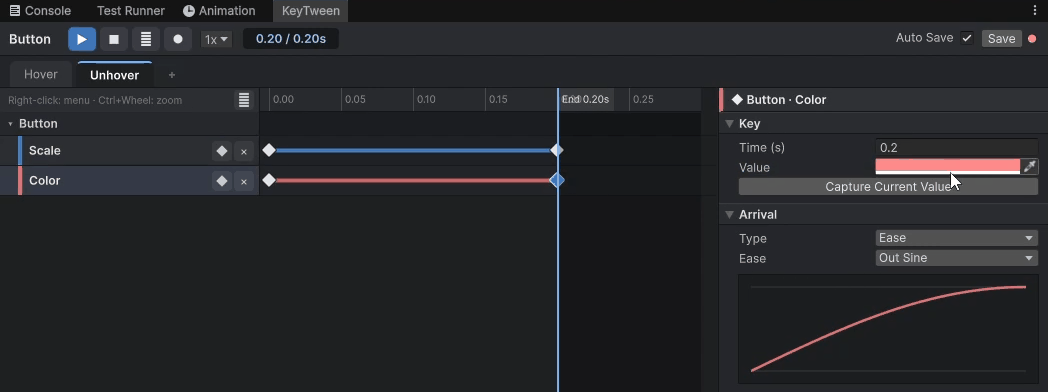
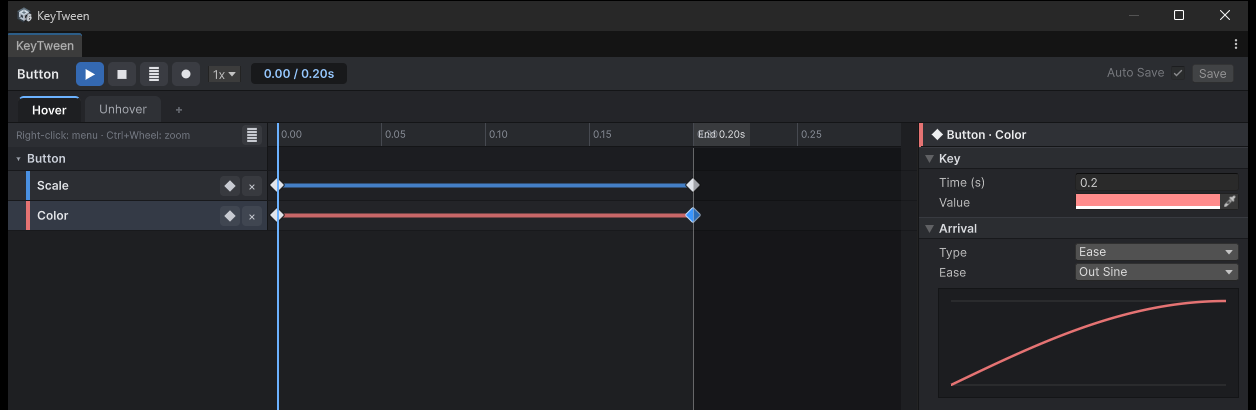
Docs~ and README: UniTask/R3 methods for timed and With plays and state notifications, new editor screenshots (key inspector, box selection, recording, per-character track, events, override, scroll list inspector)

diff --git a/Docs~/Integrations.md b/Docs~/Integrations.md
@@ -6,8 +6,8 @@ LitMotion과 VContainer가 UniTask 연동을 제공하는 방식과 같습니다
 
 | 라이브러리 | 켜지는 조건 (asmdef versionDefines) | 추가되는 것 |
 |---|---|---|
-| UniTask | `com.cysharp.unitask` 2.0.0 이상 → `KEYTWEEN_UNITASK` | 확장 메서드 3개 |
-| R3 | `com.cysharp.r3` 1.0.0 이상 → `KEYTWEEN_R3` | 확장 메서드 3개 |
+| UniTask | `com.cysharp.unitask` 2.0.0 이상 → `KEYTWEEN_UNITASK` | 확장 메서드 (재생·이벤트를 UniTask로) |
+| R3 | `com.cysharp.r3` 1.0.0 이상 → `KEYTWEEN_R3` | 확장 메서드 (재생·이벤트·상태 알림을 Observable로) |
 | UIEffect | `com.coffee.ui-effect` 5.0.0 이상 → `KEYTWEEN_UIEFFECT` | 트랙 14종 (어셈블리 `KeyTween.UIEffect`) |
 
 ## UniTask
@@ -17,7 +17,9 @@ UniTask(`com.cysharp.unitask` 2.0.0 이상)를 설치하면, 재생과 이벤트
 | 메서드 | 내용 |
 |---|---|
 | `PlayUniTaskAsync(stateName, ct)` | `PlayAsync`의 UniTask 버전입니다. |
-| `PlayReversedUniTaskAsync(stateName, ct)` | 상태를 역재생합니다. |
+| `PlayUniTaskAsync(stateName, time, ct)` | 그 시간(초)부터 재생합니다. |
+| `PlayReversedUniTaskAsync(stateName, ct)`, `(stateName, time, ct)` | 상태를 역재생합니다. |
+| `play.PlayUniTaskAsync(ct)`, `play.PlayReversedUniTaskAsync(ct)` | `With`로 설정한 재생(`KeyTweenPlay`)을 UniTask로 기다립니다. |
 | `WaitEventUniTaskAsync(eventName, ct)` | 다음 애니메이션 이벤트가 발생할 때까지 기다립니다. |
 
 ### 여러 재생을 함께 기다리기
@@ -65,11 +67,12 @@ await popup.PlayUniTaskAsync("Open", destroyCancellationToken);
 
 ### 중간부터 재생, With, Build
 
-확장 메서드는 상태 이름으로 처음부터 재생하는 것만 있습니다. 시간을 지정한 재생과 `With`, `Build`의 재생은 `Awaitable`을 돌려주므로 UniTask의 `AsUniTask()`로 바꿉니다. 확장 메서드도 내부에서 이렇게 합니다.
+시간을 주거나 `With`로 설정한 재생도 UniTask로 기다립니다. `Build`로 만든 상태는 `.With()`로 이어서 씁니다.
 
 ```csharp
-await anim.PlayAsync("Intro", 1.5f, destroyCancellationToken).AsUniTask();
-await popup.With("Open").WithEase(panel, KeyTweenProperty.Scale, KeyTweenEase.OutBack).PlayAsync(destroyCancellationToken).AsUniTask();
+await anim.PlayUniTaskAsync("Intro", 1.5f, destroyCancellationToken);   // 1.5초부터
+await popup.With("Open").WithEase(panel, KeyTweenProperty.Scale, KeyTweenEase.OutBack).PlayUniTaskAsync(destroyCancellationToken);
+await anim.Build("Pop").Track(icon.transform, KeyTweenProperty.Scale).Key(0f, Vector3.zero).Key(0.2f, Vector3.one).With().PlayUniTaskAsync();
 ```
 
 ## R3
@@ -81,6 +84,8 @@ R3(`com.cysharp.r3` 1.0.0 이상)를 설치하면, 재생과 애니메이션 이
 | `PlayAsObservable(stateName)` | 구독하면 재생을 시작하고, 재생이 끝나면 `Unit` 하나를 내보낸 뒤 완료됩니다. |
 | `EventsAsObservable()` | 모든 애니메이션 이벤트를 내보냅니다. |
 | `EventAsObservable(eventName)` | 이름이 같은 이벤트만 내보냅니다. |
+| `PlayAsObservable(stateName, time)`, `play.PlayAsObservable()` | 그 시간부터 재생, `With`로 설정한 재생(`KeyTweenPlay`). 끝나는 규칙은 `PlayAsObservable(stateName)`과 같습니다. |
+| `StateStartedAsObservable()`, `StateCompletedAsObservable()`, `StateCanceledAsObservable()` | 상태가 시작하거나, 끝에 닿거나, 끝까지 못 갔을 때 그 상태 이름을 내보냅니다. |
 
 ### R3 설치하기
 
@@ -128,17 +133,17 @@ popup.EventAsObservable("Shown").Subscribe(e => Debug.Log(e.Time)).AddTo(this);
 
 ### With 재생과 상태 알림
 
-`PlayAsObservable`은 상태 이름으로 처음부터 재생하는 것만 있습니다. `With`나 시간을 지정한 재생은 R3의 `Observable.FromAsync`로 감쌉니다. 구독을 해제하면 토큰이 취소되어 재생이 멈춥니다.
+`With`로 설정한 재생도 구독하면 재생을 시작합니다. 구독을 해제하면 재생이 그 자리에서 멈춥니다.
 
 ```csharp
 var open = popup.With("Open").WithEase(panel, KeyTweenProperty.Scale, KeyTweenEase.OutBack);
-Observable.FromAsync(async ct => await open.PlayAsync(ct)).Subscribe().AddTo(this);
+openButton.OnClickAsObservable().SelectMany(_ => open.PlayAsObservable()).Subscribe().AddTo(this);
 ```
 
-어느 상태가 시작하고 끝났는지는 `StateStarted`, `StateCompleted`, `StateCanceled` 이벤트를 `Observable.FromEvent`로 받습니다.
+어느 상태가 시작하고 끝났는지는 상태 알림으로 받습니다. 상태 이름이 값으로 옵니다.
 
 ```csharp
-Observable.FromEvent<string>(h => popup.StateCompleted += h, h => popup.StateCompleted -= h)
+popup.StateCompletedAsObservable()
     .Where(state => state == "Open")
     .Subscribe(_ => EnableInput()).AddTo(this);
 ```

diff --git a/Docs~/en/Integrations.md b/Docs~/en/Integrations.md
@@ -6,8 +6,8 @@ This is the same approach that LitMotion and VContainer take for their UniTask i
 
 | Library | Turned on when (asmdef versionDefines) | Adds |
 |---|---|---|
-| UniTask | `com.cysharp.unitask` 2.0.0 or later → `KEYTWEEN_UNITASK` | 3 extension methods |
-| R3 | `com.cysharp.r3` 1.0.0 or later → `KEYTWEEN_R3` | 3 extension methods |
+| UniTask | `com.cysharp.unitask` 2.0.0 or later → `KEYTWEEN_UNITASK` | Extension methods (plays and events as UniTasks) |
+| R3 | `com.cysharp.r3` 1.0.0 or later → `KEYTWEEN_R3` | Extension methods (plays, events and state notifications as observables) |
 | UIEffect | `com.coffee.ui-effect` 5.0.0 or later → `KEYTWEEN_UIEFFECT` | 14 tracks (assembly `KeyTween.UIEffect`) |
 
 ## UniTask
@@ -17,7 +17,9 @@ When UniTask (`com.cysharp.unitask` 2.0.0 or later) is installed, KeyTween gains
 | Method | Description |
 |---|---|
 | `PlayUniTaskAsync(stateName, ct)` | The UniTask version of `PlayAsync`. |
-| `PlayReversedUniTaskAsync(stateName, ct)` | Plays the state reversed. |
+| `PlayUniTaskAsync(stateName, time, ct)` | Plays from that time (in seconds). |
+| `PlayReversedUniTaskAsync(stateName, ct)`, `(stateName, time, ct)` | Plays the state reversed. |
+| `play.PlayUniTaskAsync(ct)`, `play.PlayReversedUniTaskAsync(ct)` | Awaits a play set up with `With` (`KeyTweenPlay`) as a UniTask. |
 | `WaitEventUniTaskAsync(eventName, ct)` | Waits until the next animation event is raised. |
 
 ### Awaiting Several Plays Together
@@ -65,11 +67,12 @@ await popup.PlayUniTaskAsync("Open", destroyCancellationToken);
 
 ### From a Given Time, With, Build
 
-The extension methods play a state by name from the start only. Plays from a given time and the plays of `With` and `Build` return an `Awaitable`, so turn it into a UniTask with UniTask's `AsUniTask()`. The extension methods do the same inside.
+Plays from a given time and plays set up with `With` are awaited as UniTasks too. For a state made with `Build`, carry on with `.With()`.
 
 ```csharp
-await anim.PlayAsync("Intro", 1.5f, destroyCancellationToken).AsUniTask();
-await popup.With("Open").WithEase(panel, KeyTweenProperty.Scale, KeyTweenEase.OutBack).PlayAsync(destroyCancellationToken).AsUniTask();
+await anim.PlayUniTaskAsync("Intro", 1.5f, destroyCancellationToken);   // from 1.5 s
+await popup.With("Open").WithEase(panel, KeyTweenProperty.Scale, KeyTweenEase.OutBack).PlayUniTaskAsync(destroyCancellationToken);
+await anim.Build("Pop").Track(icon.transform, KeyTweenProperty.Scale).Key(0f, Vector3.zero).Key(0.2f, Vector3.one).With().PlayUniTaskAsync();
 ```
 
 ## R3
@@ -81,6 +84,8 @@ When R3 (`com.cysharp.r3` 1.0.0 or later) is installed, KeyTween gains extension
 | `PlayAsObservable(stateName)` | Starts playing on subscribe, emits one `Unit` when the play ends, and completes. |
 | `EventsAsObservable()` | Emits every animation event. |
 | `EventAsObservable(eventName)` | Emits only the events with that name. |
+| `PlayAsObservable(stateName, time)`, `play.PlayAsObservable()` | Plays from that time, or a play set up with `With` (`KeyTweenPlay`). They end like `PlayAsObservable(stateName)`. |
+| `StateStartedAsObservable()`, `StateCompletedAsObservable()`, `StateCanceledAsObservable()` | Emit a state's name when it starts, reaches its end, or does not reach it. |
 
 ### Installing R3
 
@@ -128,17 +133,17 @@ popup.EventAsObservable("Shown").Subscribe(e => Debug.Log(e.Time)).AddTo(this);
 
 ### With Plays and State Notifications
 
-`PlayAsObservable` plays a state by name from the start only. Wrap a `With` play or a play from a given time in R3's `Observable.FromAsync`. Disposing the subscription cancels the token, which stops the play.
+A play set up with `With` also starts when subscribed. Disposing the subscription stops it where it is.
 
 ```csharp
 var open = popup.With("Open").WithEase(panel, KeyTweenProperty.Scale, KeyTweenEase.OutBack);
-Observable.FromAsync(async ct => await open.PlayAsync(ct)).Subscribe().AddTo(this);
+openButton.OnClickAsObservable().SelectMany(_ => open.PlayAsObservable()).Subscribe().AddTo(this);
 ```
 
-To observe which state started or ended, take the `StateStarted`, `StateCompleted` and `StateCanceled` events with `Observable.FromEvent`.
+Which state started or ended comes from the state notifications, with the state's name as the value.
 
 ```csharp
-Observable.FromEvent<string>(h => popup.StateCompleted += h, h => popup.StateCompleted -= h)
+popup.StateCompletedAsObservable()
     .Where(state => state == "Open")
     .Subscribe(_ => EnableInput()).AddTo(this);
 ```

diff --git a/Docs~/en/Guide.md b/Docs~/en/Guide.md
@@ -351,6 +351,8 @@ A key is the value of a track at one point in time. You add and move keys on the
 * Drag one of the selected keys to move all of them by the same time. One Ctrl+Z undoes it.
 * When two or more keys at different times are selected, a box spans them. Drag its right handle to stretch or shrink the keys around the left end, or its left handle to do it around the right end; the spacing between the keys scales evenly. A handle stops before the other end, so the keys keep their order. One Ctrl+Z undoes it.
 
+![Five keys selected on the Scale, Color and Rotation tracks. A box spans the selected keys with a stretch handle at each end, and the key inspector shows 5 Keys Selected.](../media/editor/editor-box-select.png)
+
 Keys move in 0.01 s steps and never go below 0 s.
 
 ### Adding and Deleting Keys
@@ -656,6 +658,8 @@ Char Scale, Char Position, Char Rotation, Char Color and Char Alpha are per-char
 
 On the timeline, the faint tail after the last key is the span in which the later characters play. Drag the end of the tail to change Stagger.
 
+![The Intro state of Title, with a Reveal track and a Char Position track. A faint tail runs on after Char Position's last key, and the track inspector shows Stagger 0.05 and Duration per Char.](../media/editor/editor-text-chars.png)
+
 ### Combining Per-Character Tracks
 
 When the same text has several per-character tracks, their results are combined.
@@ -697,6 +701,8 @@ When you choose a struct, you can edit its fields right in the inspector. These 
 * Vector2/3
 * Color
 * enum
+
+![The Open state of Popup. The Animation Events row has the Popup Sound and Shown events, and the Sound row a PopupOpen bar as long as the clip. The Popup Sound event is selected, and the inspector's Event Type shows its Clip and Volume fields.](../media/editor/editor-events.png)
 
 ### Receiving Events
 
@@ -802,9 +808,9 @@ An override changes the child's animation per track, and only inside the current
 1. Click a dimmed track under the child call. **Only that track** is overridden.
 2. Edit its keys. The edits go into the override, and the original prefab is not changed.
 
-In the screenshot below, the Popup prefab overrides the Color key of the Hover state on the nested OkButton prefab with yellow. The button in the Game view keeps its original red, while the Scene view and the KeyTween window show the popup's override.
+In the screenshot below, Popup's Open state calls OkButton's Hover at 0.2 s and overrides OkButton's Color track inside the popup only. The overridden Color track has a blue name and an **×**. The Scale track, not overridden, is dimmed. The child call's heading shows how many tracks are overridden and a **↺**.
 
-![A Popup prefab with a nested OkButton prefab. The Game view shows the button's original red, and the Scene view and the KeyTween window show the popup's override: a yellow Color key on OkButton's Hover state.](../media/editor/editor-override.png)
+![The Open state of Popup. The OkButton row has a Hover child call bar; below it are the heading Hover 1 track(s) overridden with a ↺, a dimmed OkButton · Scale track, and an OkButton · Color track with a blue name.](../media/editor/editor-override.png)
 
 ### Editing the Original Prefab
 
@@ -942,6 +948,8 @@ With recording on, you can create keys simply by changing an object in the Scene
 3. Change an object in the Scene view or the Inspector. The new value becomes a key.
 
 The object itself returns to its value before the change, and the view shows the new key through preview. Each change is one Undo step.
+
+![The KeyTween window while recording. The ● button in the top bar is red, and a Scale key has appeared at 0.1 s, where the playhead is. The key inspector shows Time 0.1 and Value 1.04.](../media/editor/editor-record.png)
 
 ### How Recording Creates Keys
 

diff --git a/Docs~/API.md b/Docs~/API.md
@@ -518,9 +518,9 @@ KeyTween.Write(label, KeyTweenProperty.TextNumber, new Vector4(1234, 0, 0, 0)); 
 | 라이브러리 | 확장 메서드 |
 |---|---|
 | UniTask | `PlayUniTaskAsync`, `PlayReversedUniTaskAsync`, `WaitEventUniTaskAsync` |
-| R3 | `PlayAsObservable`, `EventsAsObservable`, `EventAsObservable` |
+| R3 | `PlayAsObservable`, `EventsAsObservable`, `EventAsObservable`, `StateStartedAsObservable`, `StateCompletedAsObservable`, `StateCanceledAsObservable` |
 
-라이브러리를 설치하면 연동이 자동으로 켜지며, 따로 설정할 것은 없습니다. 시간을 지정한 재생과 `With`, `Build`의 재생은 `AsUniTask()`나 `Observable.FromAsync`로 감쌉니다. 자세한 내용은 [Integrations](Integrations.md)를 참고하세요.
+라이브러리를 설치하면 연동이 자동으로 켜지며, 따로 설정할 것은 없습니다. 시간을 지정한 재생과 `With`의 재생에도 같은 메서드가 있습니다. 자세한 내용은 [Integrations](Integrations.md)를 참고하세요.
 
 ## 그 밖의 컴포넌트
 

diff --git a/Docs~/en/API.md b/Docs~/en/API.md
@@ -518,9 +518,9 @@ When the following libraries are installed, KeyTween gains extra extension metho
 | Library | Extension methods |
 |---|---|
 | UniTask | `PlayUniTaskAsync`, `PlayReversedUniTaskAsync`, `WaitEventUniTaskAsync` |
-| R3 | `PlayAsObservable`, `EventsAsObservable`, `EventAsObservable` |
+| R3 | `PlayAsObservable`, `EventsAsObservable`, `EventAsObservable`, `StateStartedAsObservable`, `StateCompletedAsObservable`, `StateCanceledAsObservable` |
 
-An integration turns on automatically when its library is installed, with nothing to configure. Wrap plays from a given time and the plays of `With` and `Build` with `AsUniTask()` or `Observable.FromAsync`. For details, see [Integrations](Integrations.md).
+An integration turns on automatically when its library is installed, with nothing to configure. The same methods also take a start time, and work on a `With` play. For details, see [Integrations](Integrations.md).
 
 ## Other Components
 

diff --git a/README.md b/README.md
@@ -561,7 +561,7 @@ KeyTween does not depend on any third-party library. When one of the libraries b
 | Library | Package | Adds |
 |---|---|---|
 | UniTask | `com.cysharp.unitask` 2.0+ | `PlayUniTaskAsync`, `PlayReversedUniTaskAsync`, `WaitEventUniTaskAsync` |
-| R3 | `com.cysharp.r3` 1.0+ | `PlayAsObservable`, `EventsAsObservable`, `EventAsObservable` |
+| R3 | `com.cysharp.r3` 1.0+ | `PlayAsObservable`, `EventsAsObservable`, `EventAsObservable`, `StateStartedAsObservable`, `StateCompletedAsObservable`, `StateCanceledAsObservable` |
 | UIEffect | `com.coffee.ui-effect` 5.0+ | 14 tracks |
 
 ### Awaiting with UniTask

diff --git a/Docs~/en/ScrollList.md b/Docs~/en/ScrollList.md
@@ -25,6 +25,8 @@ This section explains how to set the item prefabs and the layout. The list's ins
 * You pick the kind from Extra Prefabs in code with `prefabOf(index)`. Each kind is pooled separately.
 * Use Measure Items for a chat bubble that grows with long text.
 
+![The Scroll List inspector. From the top: layout fields such as Item Prefab and Layout, Scrolling (Snap, Stick To End and so on), Animation (Entry State = Show, Appear State = Appear, Scrub State) and Preview (Items, Show, Play Entry).](../media/scroll/scroll-list-inspector.png)
+
 ### Choosing a Layout
 
 Each layout has the following settings.

diff --git a/Docs~/ScrollList.md b/Docs~/ScrollList.md
@@ -25,6 +25,8 @@
 * Extra Prefabs 중 어떤 종류를 쓸지는 코드의 `prefabOf(index)`로 고릅니다. 종류마다 따로 재사용합니다.
 * Measure Items는 글이 길면 커지는 말풍선에 씁니다.
 
+![Scroll List 인스펙터. 위에서부터 Item Prefab, Layout 같은 배치 칸, Scrolling(Snap, Stick To End 등), Animation(Entry State = Show, Appear State = Appear, Scrub State), Preview(Items, Show, Play Entry)가 있습니다.](media/scroll/scroll-list-inspector.png)
+
 ### Layout 고르기
 
 Layout마다 쓸 수 있는 설정은 다음과 같습니다.
